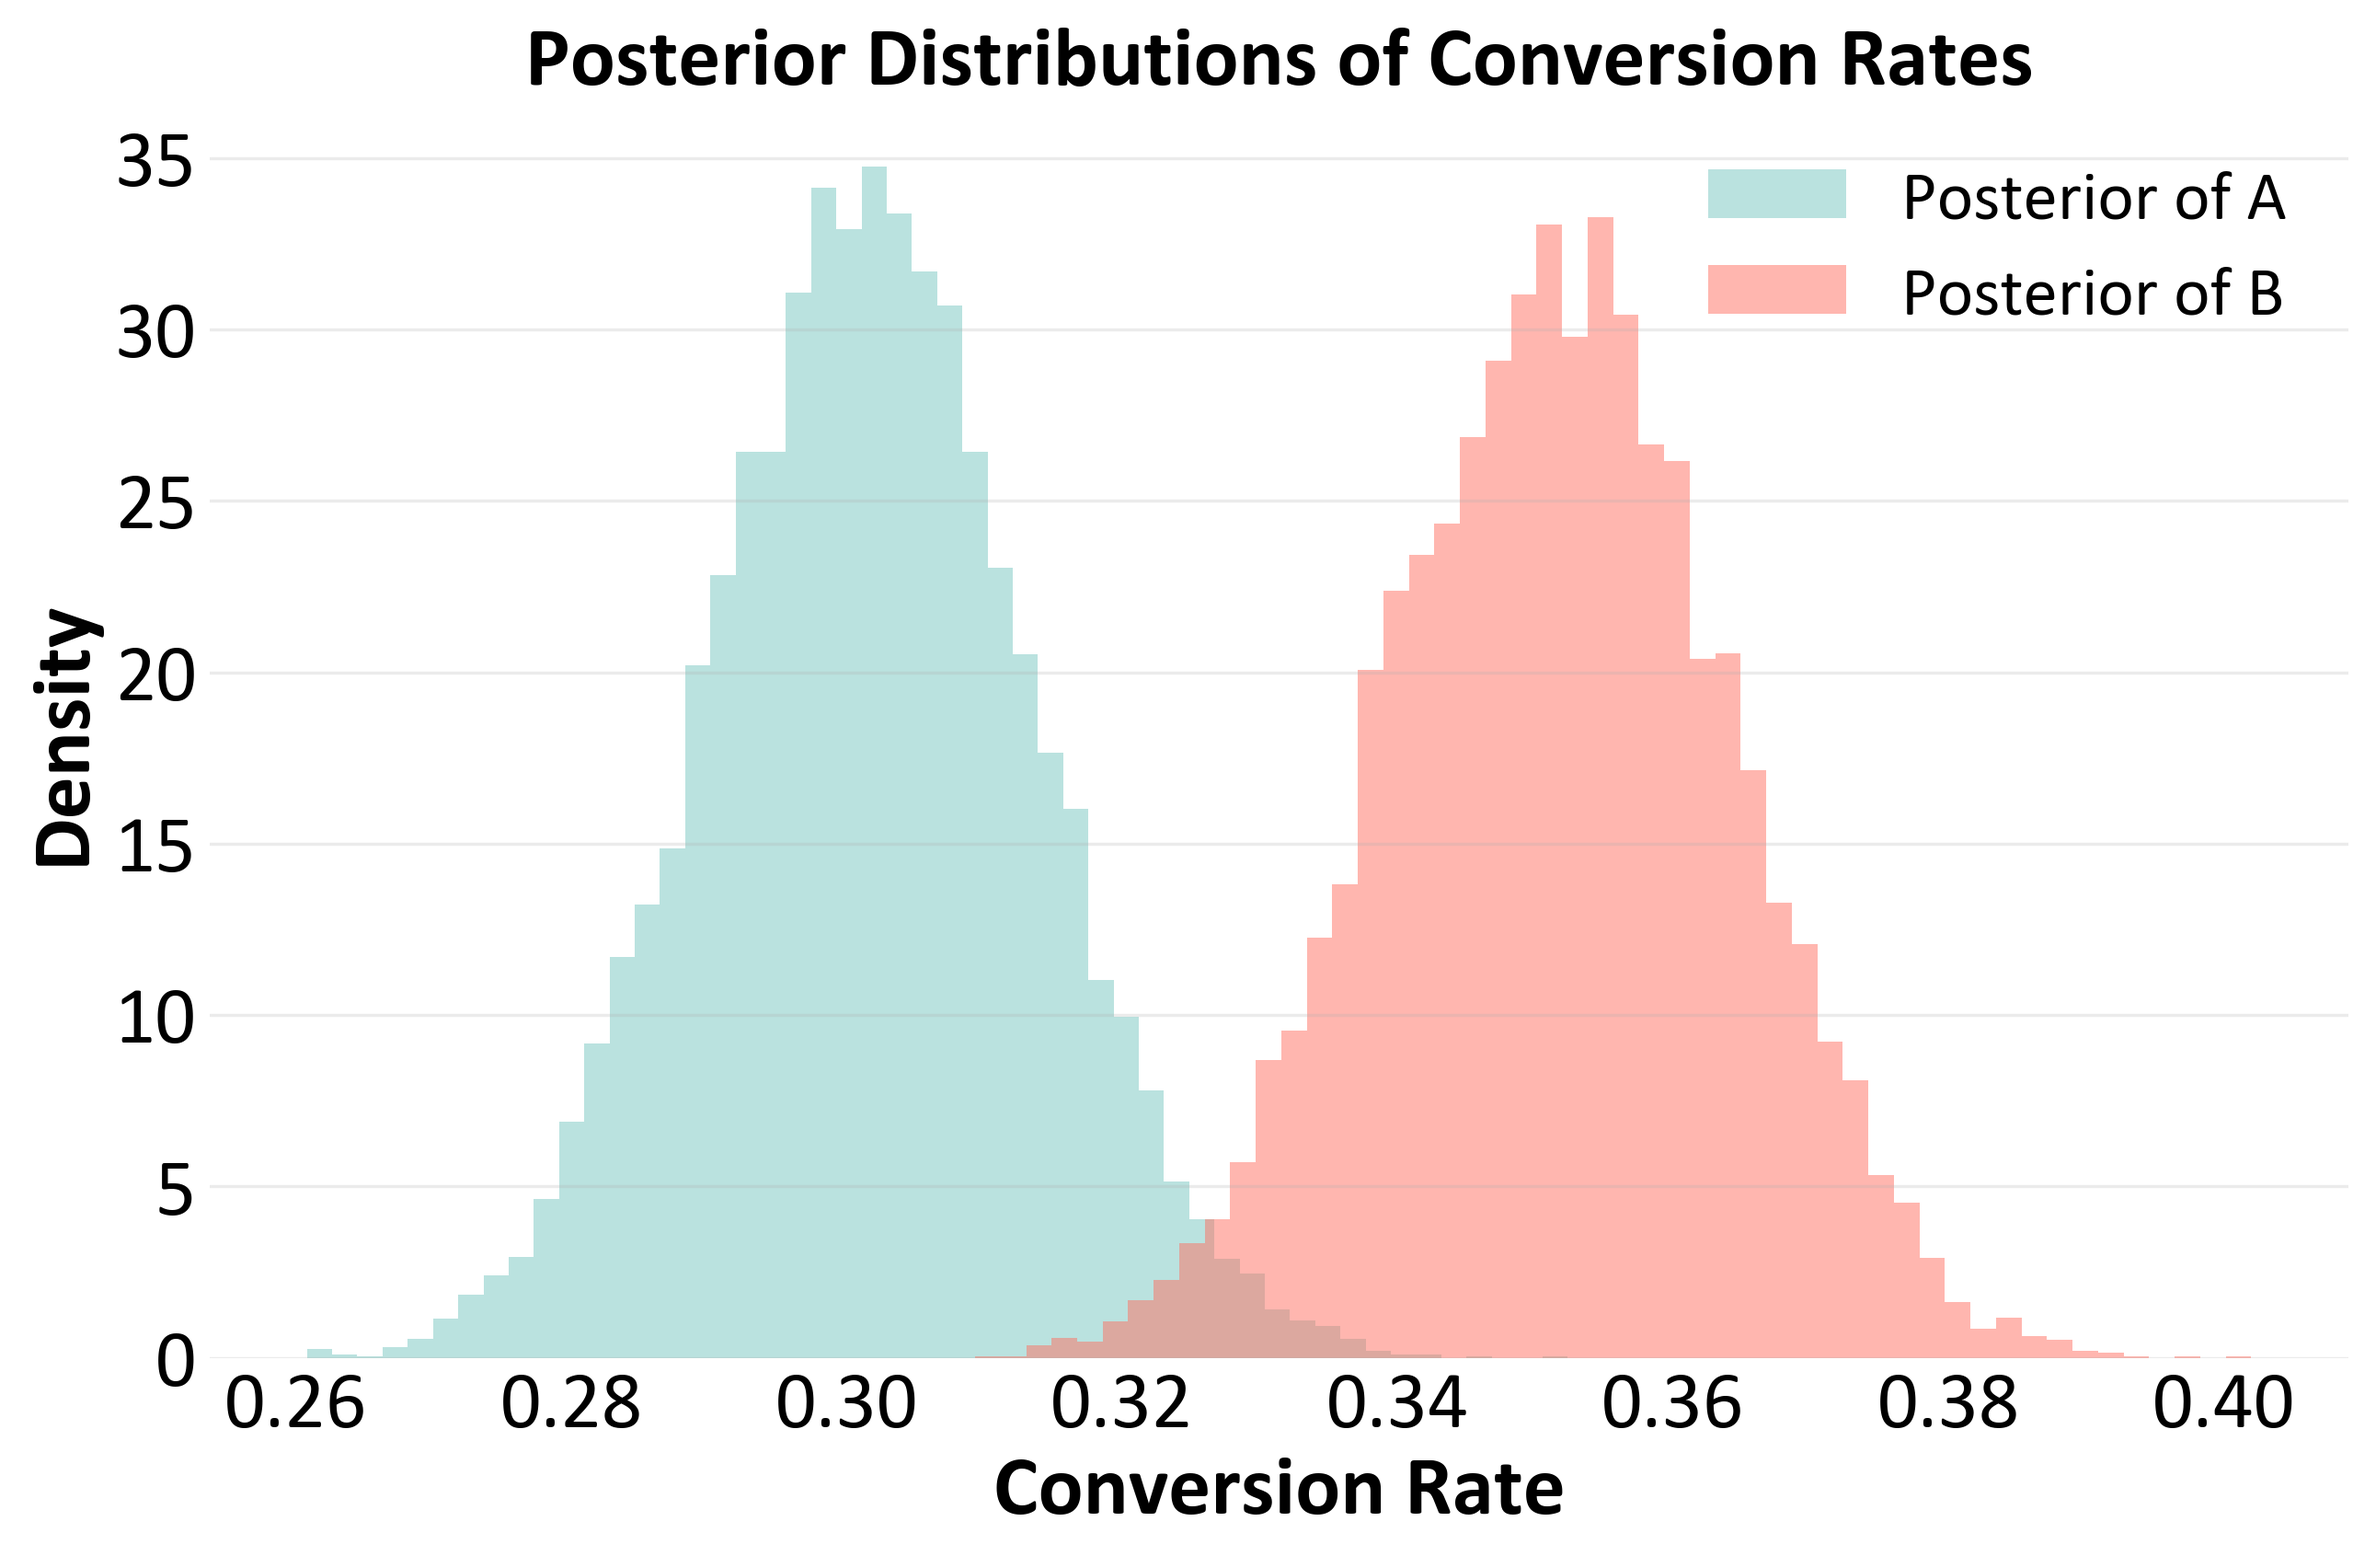
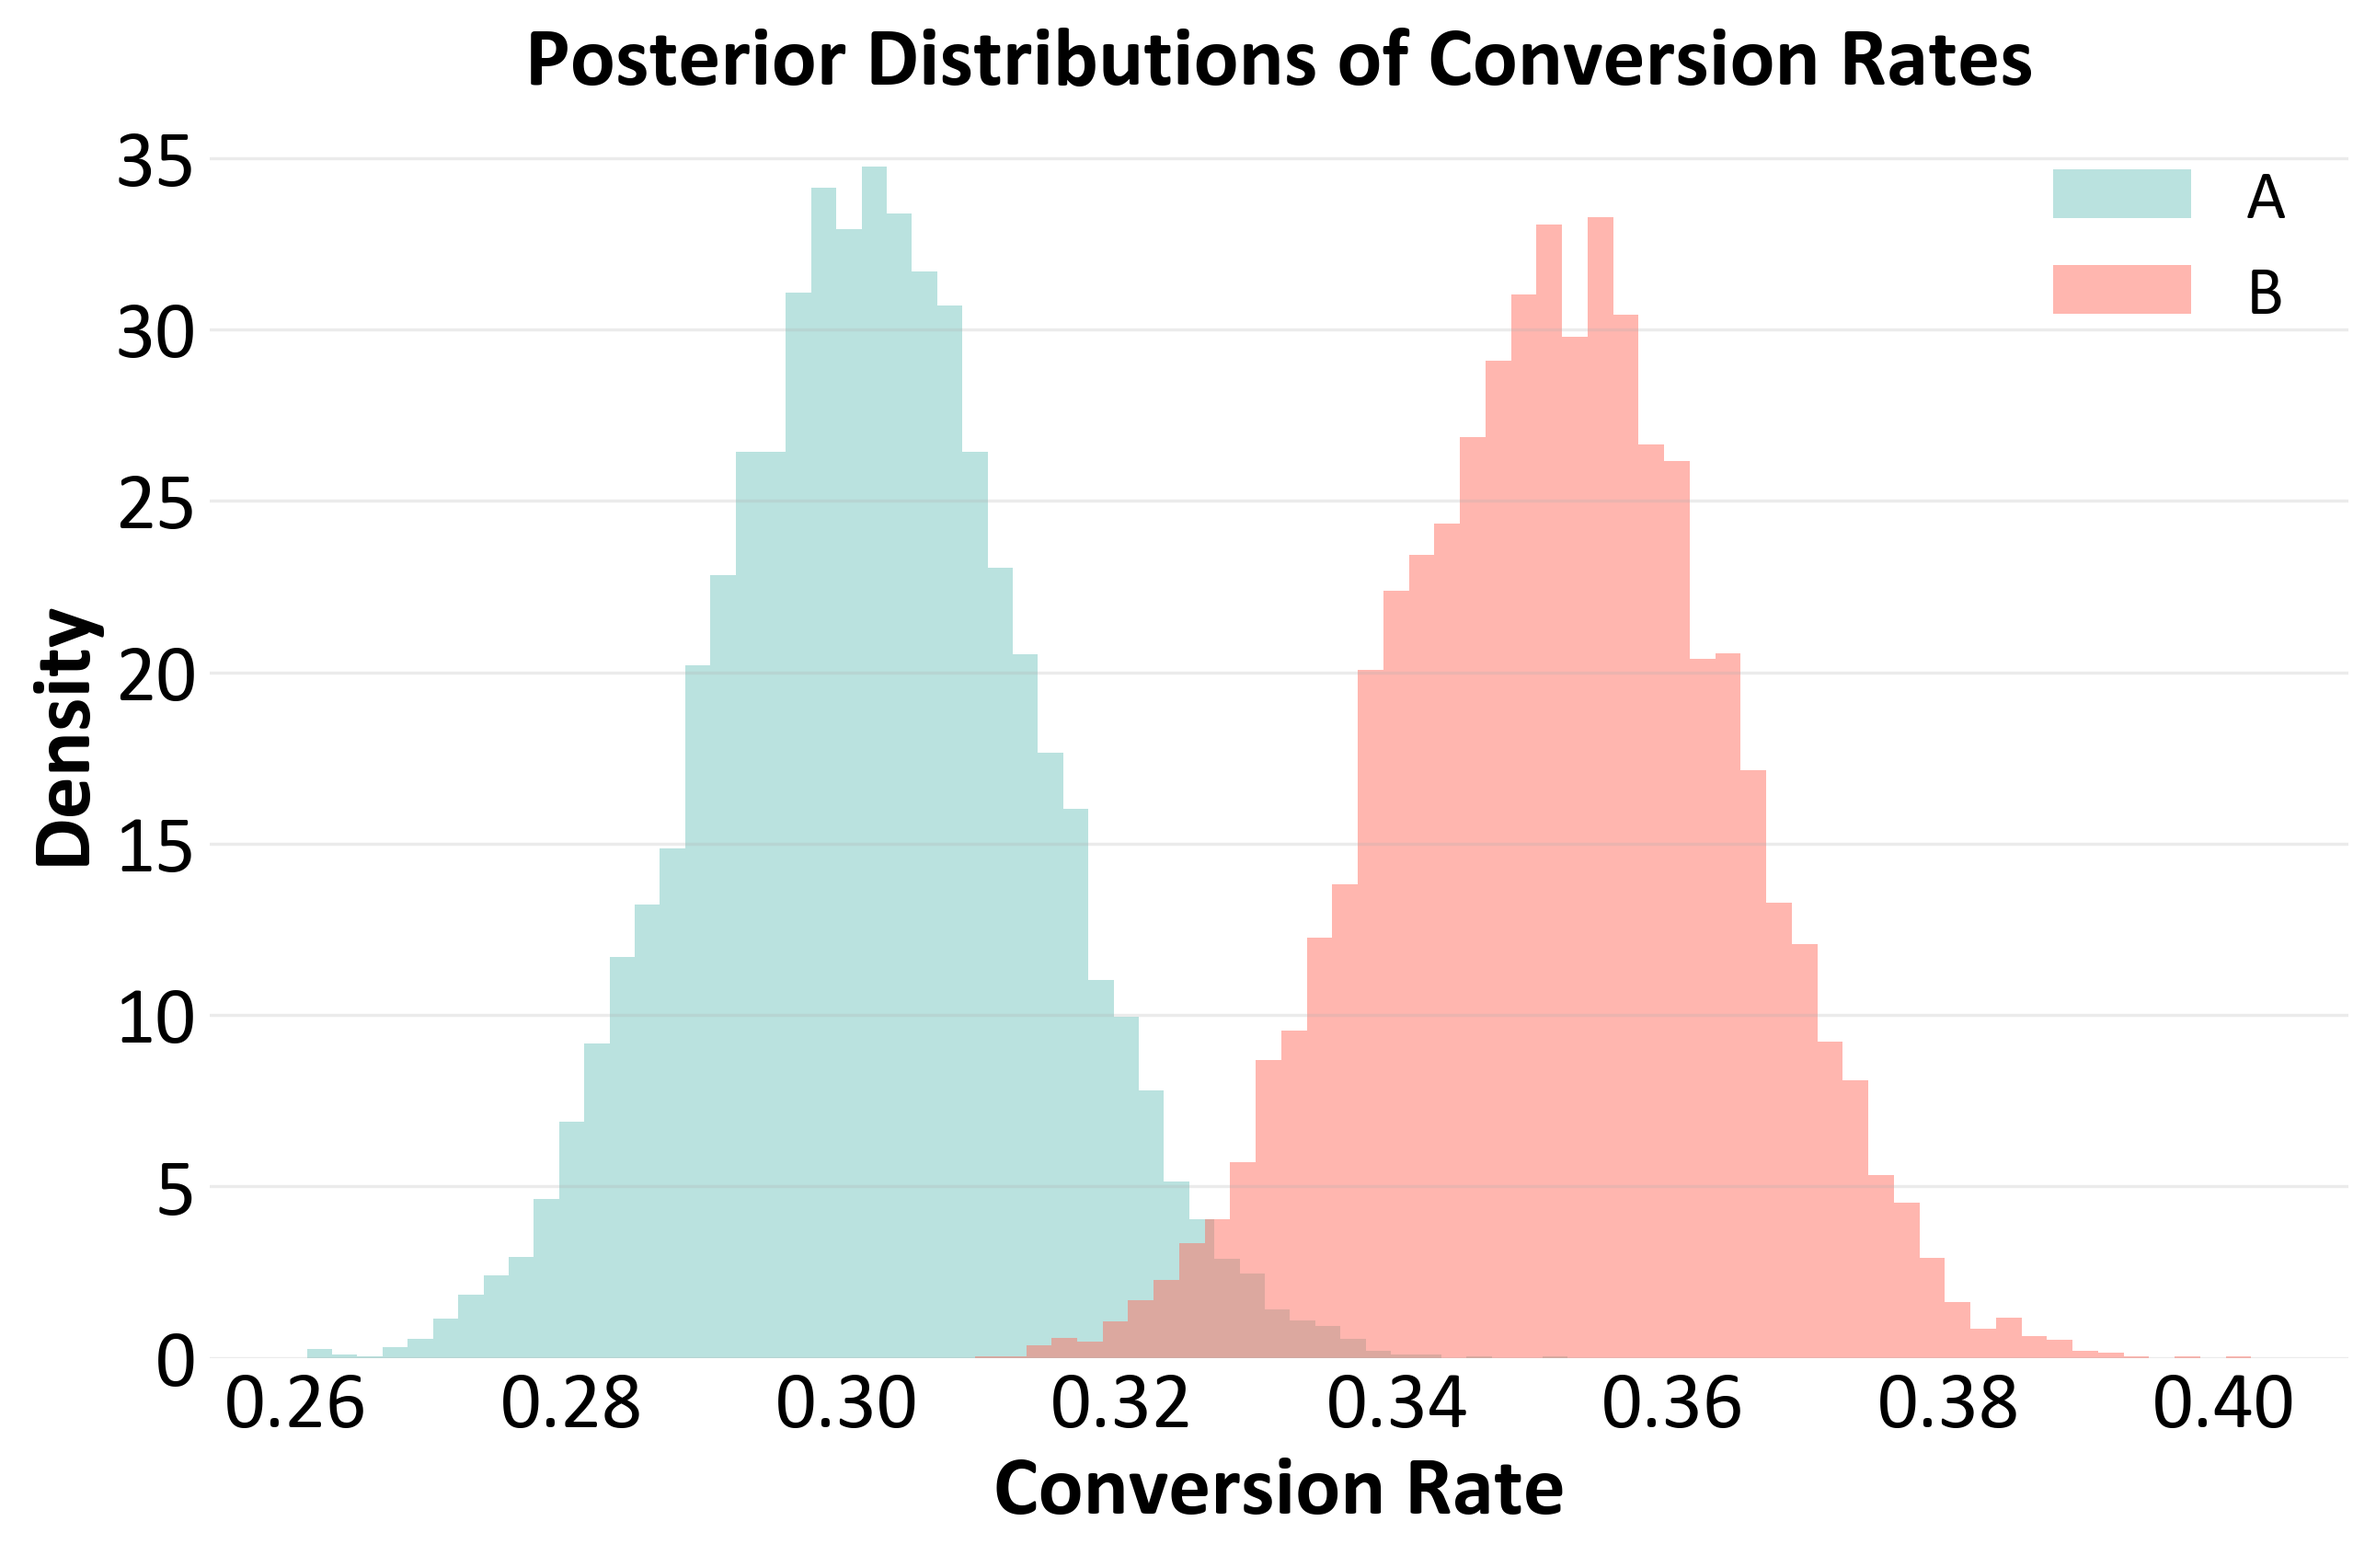
Add files via upload

Changed region(s): [[0.8053, 0.0923, 0.9601, 0.2153], [0.7123, 0.0923, 0.7743, 0.2153]]

diff --git a/AB_test_simulation.py b/AB_test_simulation.py
@@ -100,7 +100,7 @@ print(f"Observed Conversion Rate - Version B: {conversion_rate_B_observed:.2%}")
 
 ##################################################################################################################################################################################################################
 # T-test to check if the difference in conversion rates is statistically significant
-# T-test gives a p-value to determine if the difference between two versions is statistically significant
+# Outputs p-value to determine if the difference between two versions is statistically significant
 ##################################################################################################################################################################################################################
 # t-test as comparing the mean conversion rates between two groups. t-test is appropriate for continuous or binary data where we want to see if the average outcome differs. 
 # chi-square test would be used if comparing categorical counts
@@ -140,8 +140,8 @@ posterior_B = beta.rvs(alpha_post_B, beta_post_B, size=10000)
 # Plot posterior distributions
 plt.figure(figsize=(10, 6))
 plt.rcParams['font.family'] = 'Calibri'
-plt.hist(posterior_A, bins=50, alpha=0.5, label='Posterior of A', density=True,color=['#76c7c0'])
-plt.hist(posterior_B, bins=50, alpha=0.5, label='Posterior of B', density=True,color=['#ff6f61'])
+plt.hist(posterior_A, bins=50, alpha=0.5, label='A', density=True,color=['#76c7c0'])
+plt.hist(posterior_B, bins=50, alpha=0.5, label='B', density=True,color=['#ff6f61'])
 plt.title('Posterior Distributions of Conversion Rates', fontweight='bold', fontsize=fs)
 plt.xlabel('Conversion Rate', fontweight='bold', fontsize=fs)
 plt.ylabel('Density', fontweight='bold', fontsize=fs)
@@ -249,7 +249,7 @@ y_pred = log_reg.predict(X_test)
 accuracy = accuracy_score(y_test, y_pred)
 print(f"Logistic Regression Accuracy: {accuracy:.2%}")
 
-# Display coefficients (effect of each variable on conversion)
+# Print coefficients
 coefficients = pd.DataFrame({
     'Variable': ['Version (A vs B)', 'Age Group (Young vs Old)', 'Device Type (Mobile vs Desktop)'],
     'Coefficient': log_reg.coef_[0]
